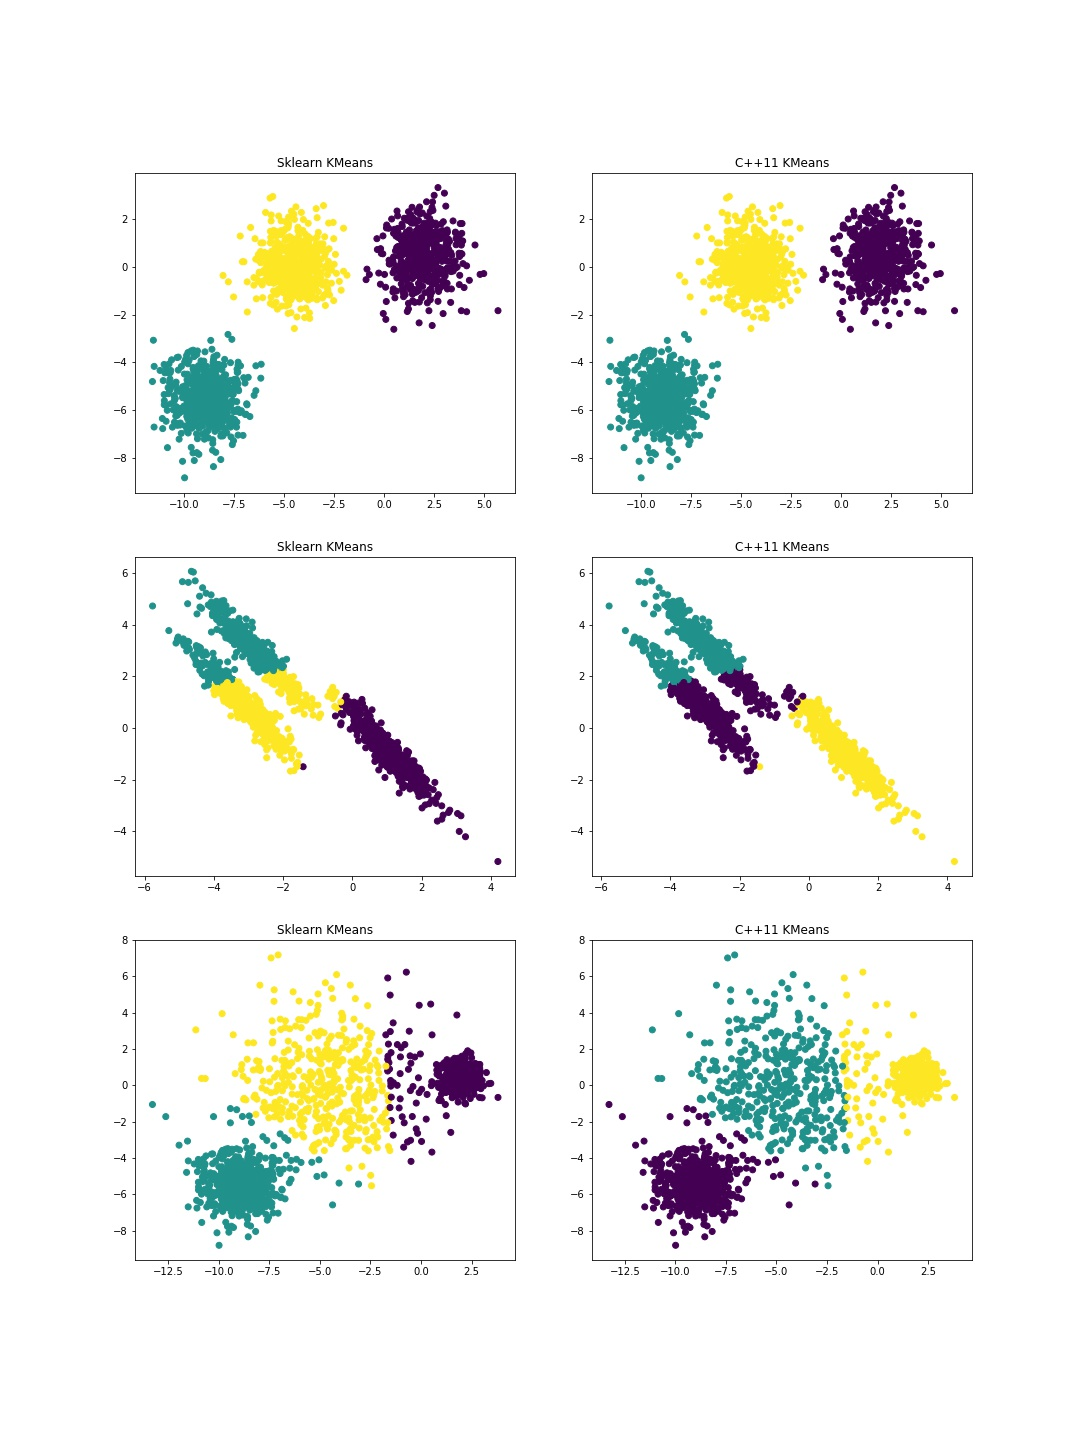
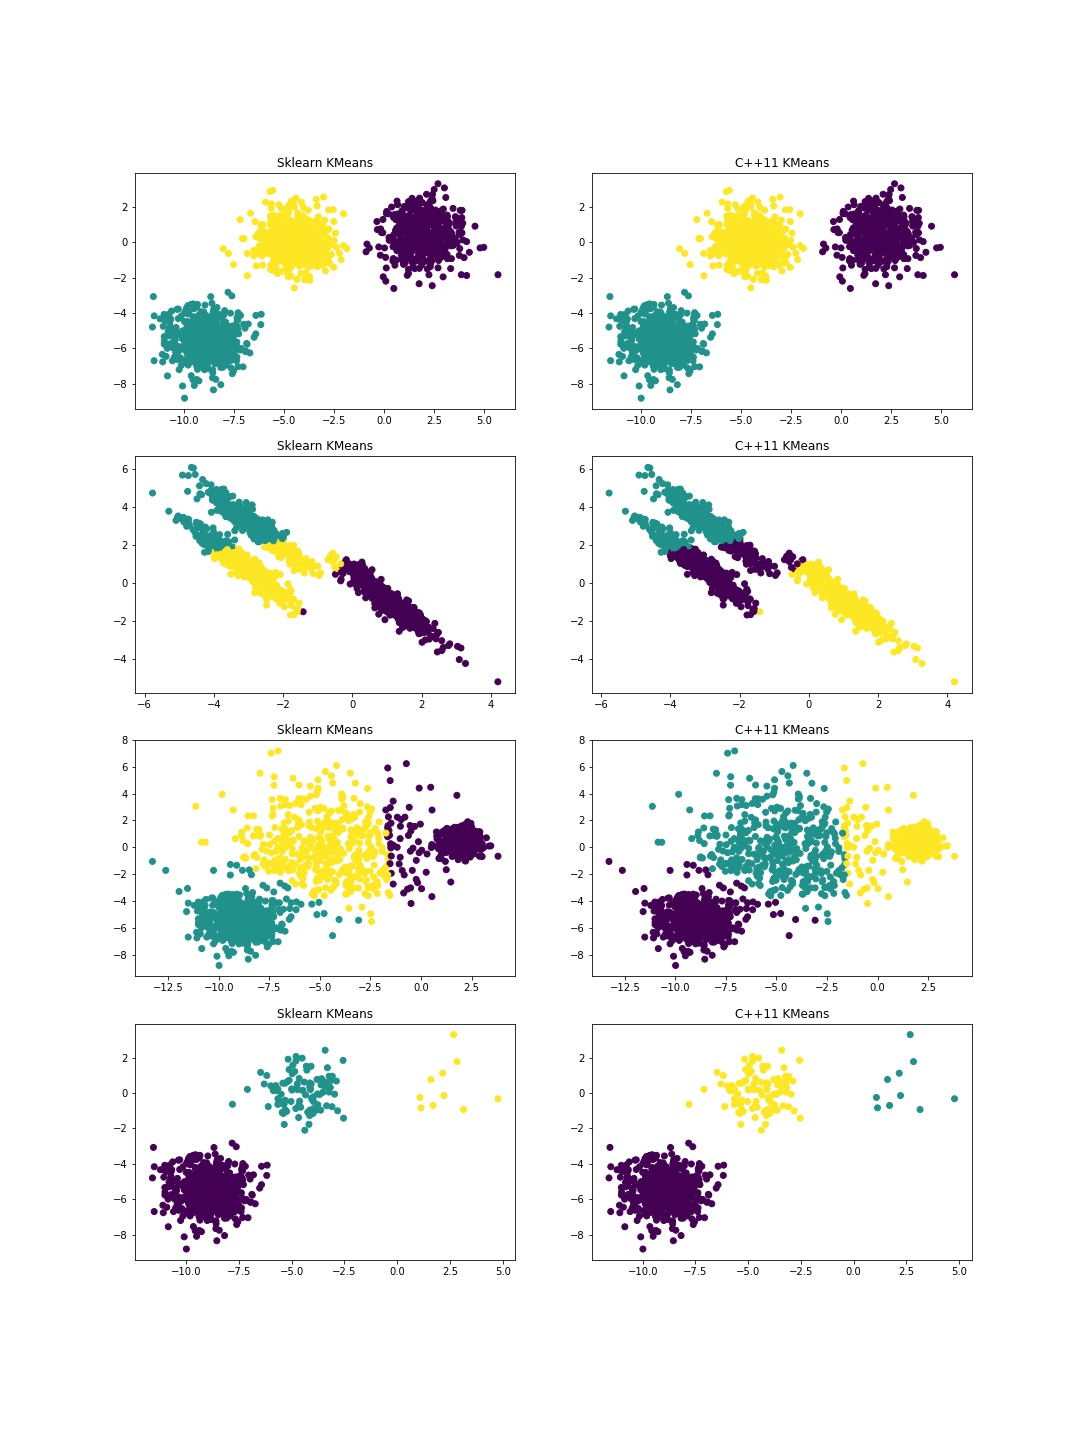
Add files via upload

Changed region(s): [[0.1222, 0.125, 0.4583, 0.875], [0.55, 0.125, 0.8861, 0.875], [0.55, 0.5938, 0.5806, 0.625]]

diff --git a/results/sklearn_kmeans.py b/results/sklearn_kmeans.py
@@ -1,0 +1,92 @@
+# -*- coding: utf-8 -*-
+"""
+Created on Thu Jul 18 20:02:25 2019
+
+@author: hqz
+"""
+
+
+import numpy as np
+import matplotlib.pyplot as plt
+
+from sklearn.cluster import KMeans
+from sklearn.datasets import make_blobs
+
+n_samples = 1500
+random_state = 170
+X, y = make_blobs(n_samples=n_samples, random_state=random_state)
+
+
+# Incorrect number of clusters
+y_pred = KMeans(n_clusters=3, random_state=random_state).fit_predict(X)
+
+np.savetxt("X.txt", X, fmt='%.10f', delimiter=' ')
+
+plt.figure(0)
+plt.figure(figsize=(15, 20))
+
+plt.subplot(421)
+plt.scatter(X[:, 0], X[:, 1], c=y_pred)
+plt.title("Sklearn KMeans")
+
+y_pred_1 = np.loadtxt("X_labels.txt")
+
+plt.subplot(422)
+plt.scatter(X[:, 0], X[:, 1], c=y_pred_1)
+plt.title("C++11 KMeans")
+
+# Anisotropicly distributed data
+transformation = [[0.60834549, -0.63667341], [-0.40887718, 0.85253229]]
+X_aniso = np.dot(X, transformation)
+y_pred = KMeans(n_clusters=3, random_state=random_state).fit_predict(X_aniso)
+
+np.savetxt("X_aniso.txt", X_aniso, fmt='%.10f', delimiter=' ')
+
+plt.subplot(423)
+plt.scatter(X_aniso[:, 0], X_aniso[:, 1], c=y_pred)
+plt.title("Sklearn KMeans")
+
+y_pred_1 = np.loadtxt("X_aniso_labels.txt")
+
+plt.subplot(424)
+plt.scatter(X_aniso[:, 0], X_aniso[:, 1], c=y_pred_1)
+plt.title("C++11 KMeans")
+
+# Different variance
+X_varied, y_varied = make_blobs(n_samples=n_samples,
+                                cluster_std=[1.0, 2.5, 0.5],
+                                random_state=random_state)
+y_pred = KMeans(n_clusters=3, random_state=random_state).fit_predict(X_varied)
+
+np.savetxt("X_varied.txt", X_varied, fmt='%.10f', delimiter=' ')
+
+plt.subplot(425)
+plt.scatter(X_varied[:, 0], X_varied[:, 1], c=y_pred)
+plt.title("Sklearn KMeans")
+
+y_pred_1 = np.loadtxt("X_varied_labels.txt")
+
+plt.subplot(426)
+plt.scatter(X_varied[:, 0], X_varied[:, 1], c=y_pred_1)
+plt.title("C++11 KMeans")
+
+
+# Unevenly sized blobs
+X_filtered = np.vstack((X[y == 0][:500], X[y == 1][:100], X[y == 2][:10]))
+y_pred = KMeans(n_clusters=3,
+                random_state=random_state).fit_predict(X_filtered)
+
+np.savetxt("X_filtered.txt", X_filtered, fmt='%.10f', delimiter=' ')
+
+plt.subplot(427)
+plt.scatter(X_filtered[:, 0], X_filtered[:, 1], c=y_pred)
+plt.title("Sklearn KMeans")
+
+y_pred_1 = np.loadtxt("X_filtered_labels.txt")
+
+plt.subplot(428)
+plt.scatter(X_filtered[:, 0], X_filtered[:, 1], c=y_pred_1)
+plt.title("C++11 KMeans")
+
+plt.savefig("ResultsOfComparison.jpg")
+plt.show()
